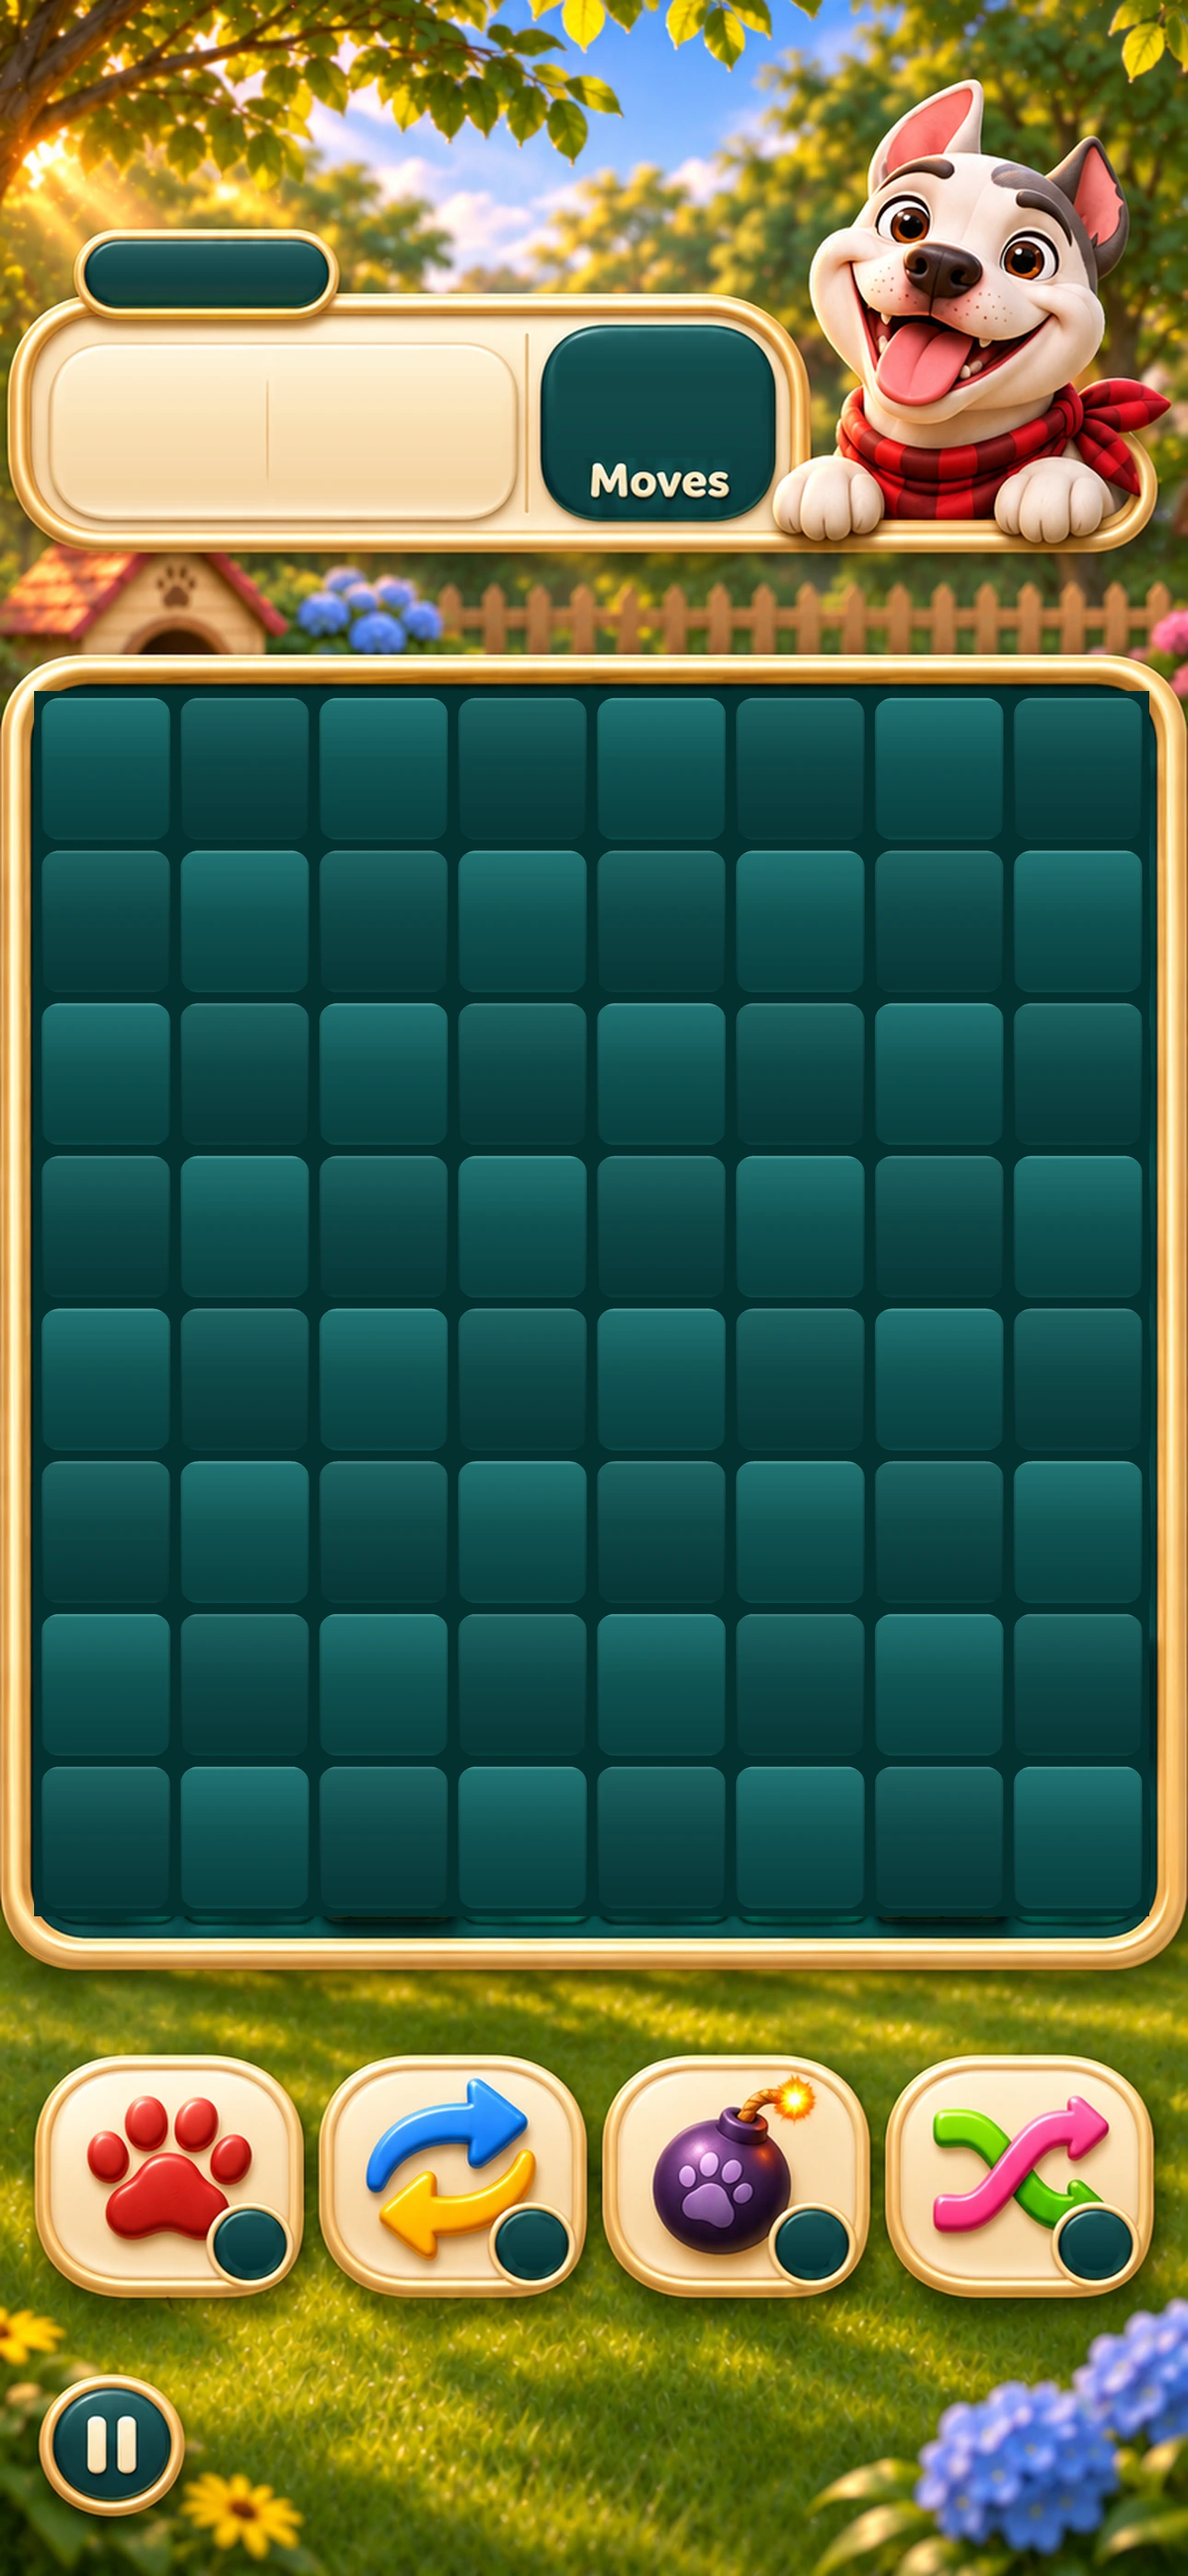
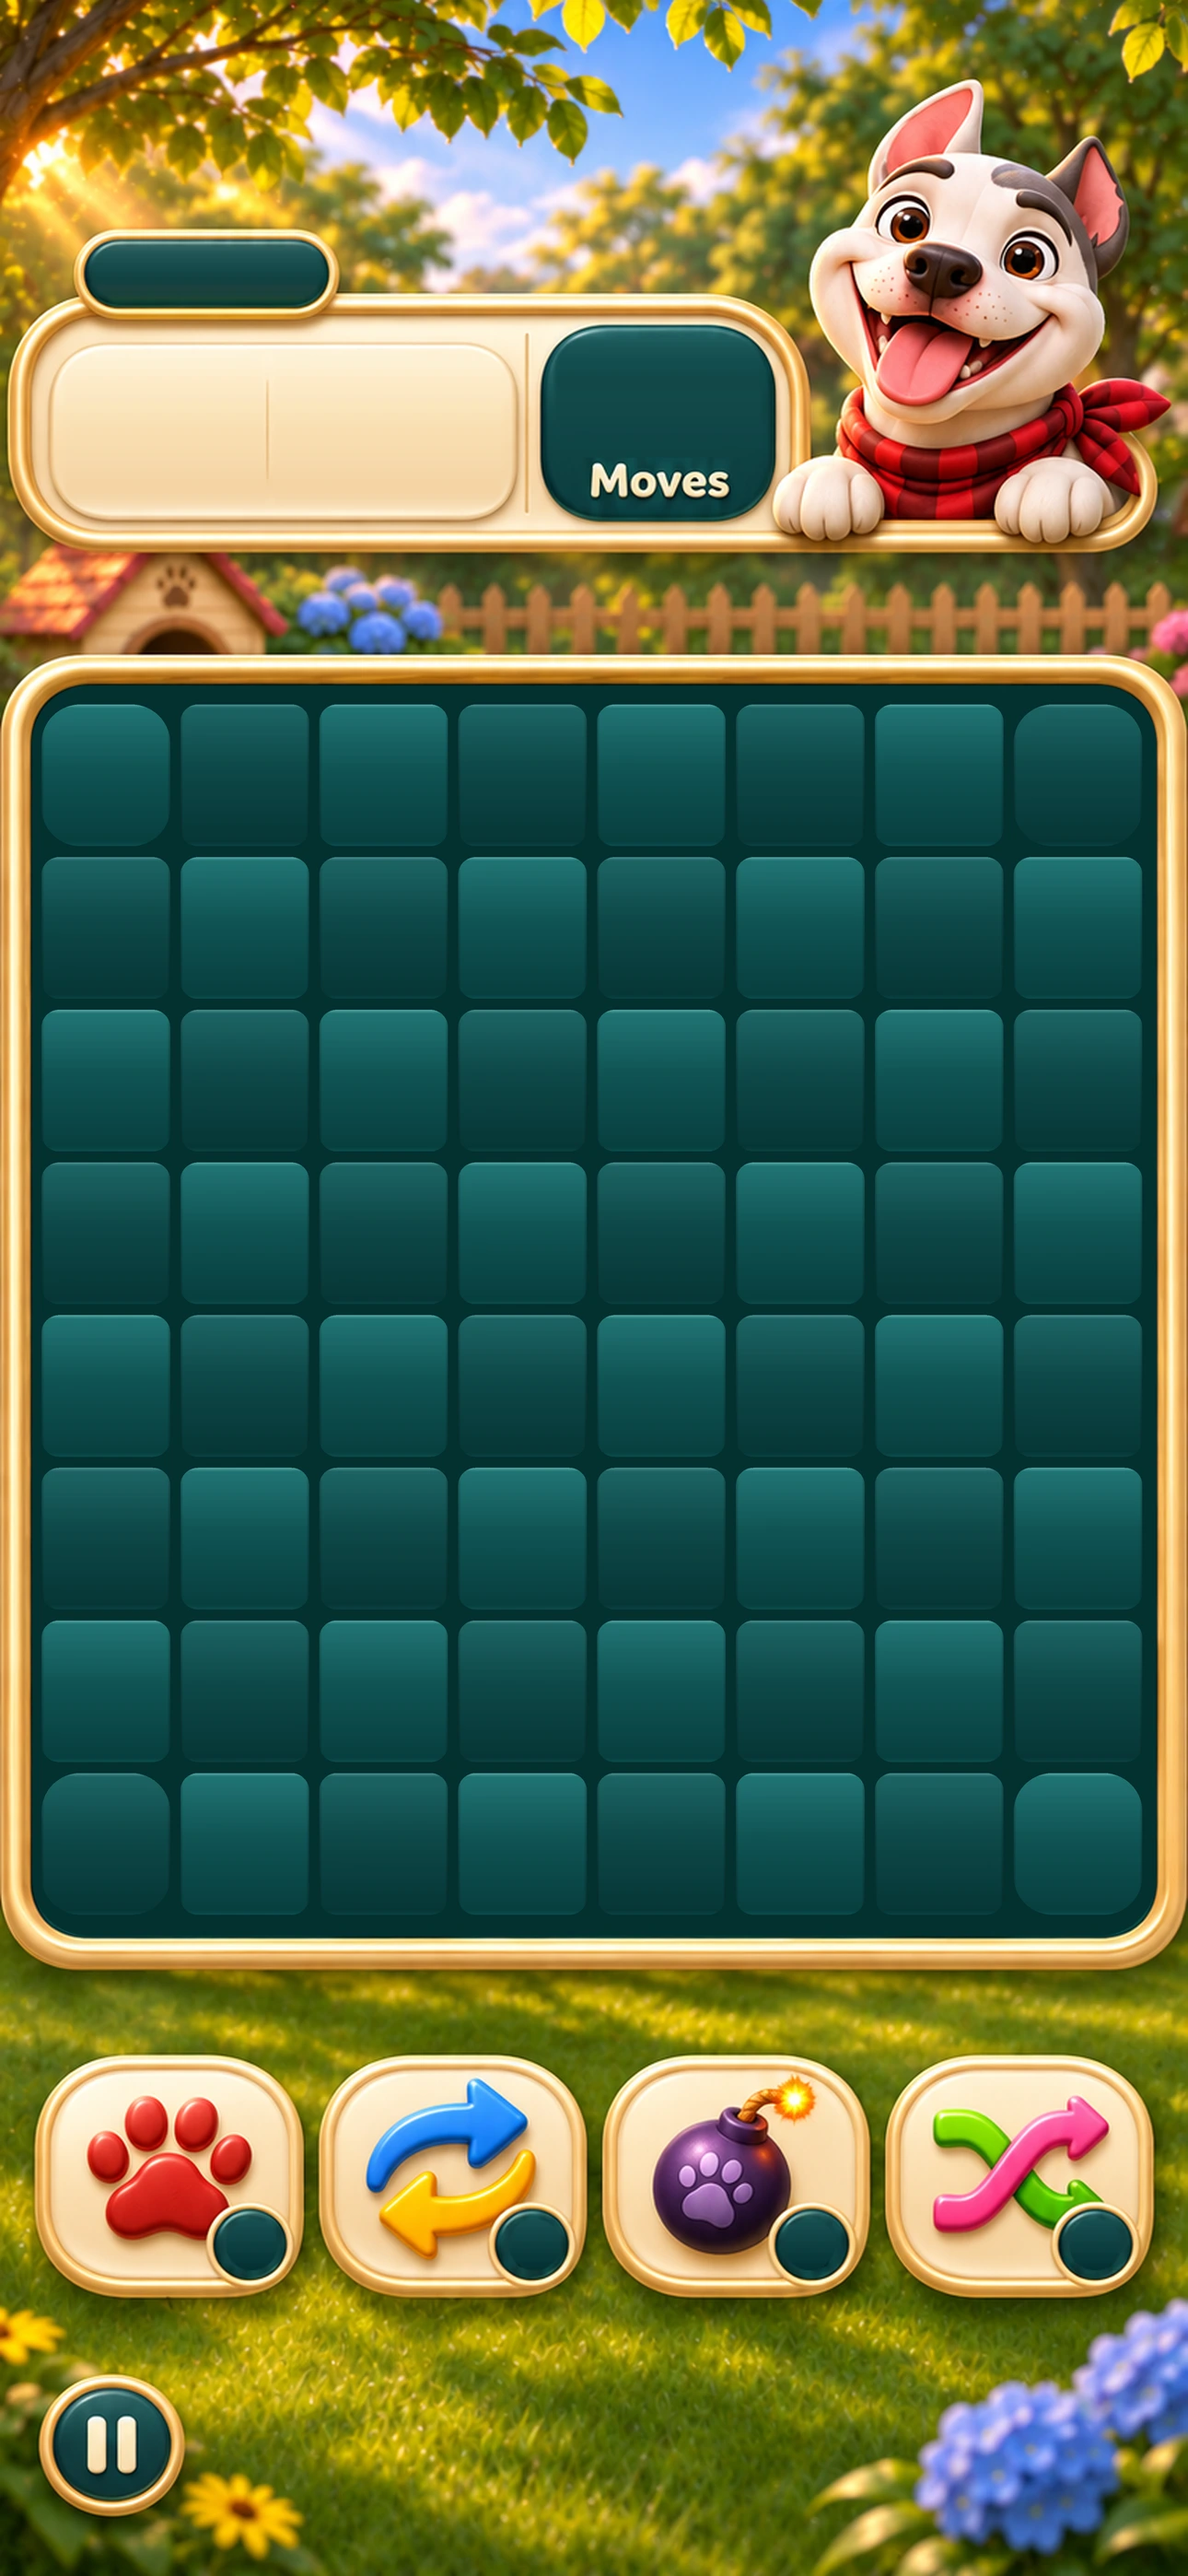
Board preview: rounded corners follow the gold frame, grid centered in frame
Claude-Session: https://claude.ai/code/session_01HqXo8oXM9XTGkWGnUkjv9K

diff --git a/game_new.html b/game_new.html
@@ -353,7 +353,7 @@ function drawPiece(p){const el=p.el;
  let rot=p.sp=='row'?'rotate:38deg':p.sp=='col'?'rotate:-52deg':'';
  el.innerHTML=`<img src="a/${src}.webp" style="${rot}">`+(p.tied?'<img class="lsh" src="a/ob_leash.webp">':'')}
 function makePiece(t,extra={}){return Object.assign({id:++uid,t,sp:null,carrot:false,tied:false},extra)}
-function boardTop(R){return (window.G2OFF||0)+752*KC}
+function boardTop(R){return (window.G2OFF||0)+759*KC}
 window.relayout=()=>{if(!S||!S.R)return;const t=boardTop(S.R);board.style.top=t+'px';S.top=t};
 function buildBoard(){
  const R=S.R,W=COLS*CS,H=R*CS;
@@ -711,7 +711,7 @@ $('pz').onclick=()=>{if(!S)return;showOv(`<img class="ttl2" src="a/L_t_paused.we
 window.T={get S(){return S},findMove,localMatch,trySwap,startLevel,LEVELS,setFast:v=>FAST=v,tapCell};
 document.body.dataset.bt=Q.get('bt')||'cream70';document.getElementById('topw').style.transform=`translate(10px,${Q.get('hu')??14}px) scale(.9)`;if(Q.get('dof'))document.body.dataset.dof=Q.get('dof');if(Q.get('calm'))document.body.dataset.calm=Q.get('calm');document.body.dataset.hud=Q.get('hud')||'smoke';
 addEventListener("load",()=>startLevel(Math.max(0,(+Q.get("lv")||1)-1)));
-</script><script src="game_fx.js?v=23"></script><script src="rambo_live.js?v=23"></script><script src="game2_new.js?v=4"></script><script>
+</script><script src="game_fx.js?v=23"></script><script src="rambo_live.js?v=23"></script><script src="game2_new.js?v=5"></script><script>
 // NEW-LOOK PREVIEW: board sits on the map scene for this level; map/home buttons go to the new pages
 try{sessionStorage.setItem('gbb_map','bovo10/index.html')}catch(e){}
 setTimeout(()=>{if(window.BA&&BA.nav){const n=BA.nav;BA.nav=u=>n(/^(index\.html|home)/.test(u)?'bovo11/index.html':u)}},0);

diff --git a/game2_new.js b/game2_new.js
@@ -10,8 +10,8 @@ const font=new FontFace('BoboNunito','url(a/home/Nunito-Black.ttf)',{weight:'900
 const css=document.createElement('style');css.textContent=`
 #bgA,#bgB,#tint,#calm,#topw,#lvs,#pz,#bsts,#brks,#bub,#btip,#sb{display:none!important}
 #tiles,#tiles .tile{background:none!important;filter:none!important;box-shadow:none!important}
-#g2top{position:absolute;left:0;width:390px;background:url(bovo11/play2/skin.webp?v=2) center top/390px ${H*KC}px;transform:scaleY(-1);z-index:0}
-#g2skin{position:absolute;left:0;width:390px;height:${H*KC}px;background:url(bovo11/play2/skin.webp?v=2) 0 0/100% 100%;z-index:0}
+#g2top{position:absolute;left:0;width:390px;background:url(bovo11/play2/skin.webp?v=3) center top/390px ${H*KC}px;transform:scaleY(-1);z-index:0}
+#g2skin{position:absolute;left:0;width:390px;height:${H*KC}px;background:url(bovo11/play2/skin.webp?v=3) 0 0/100% 100%;z-index:0}
 #board{z-index:2}
 #g2hud,#g2ui{position:absolute;left:0;width:390px;height:${H*KC}px;z-index:4;pointer-events:none}
 #g2ui .h{position:absolute;pointer-events:auto;cursor:pointer;border-radius:12px}
